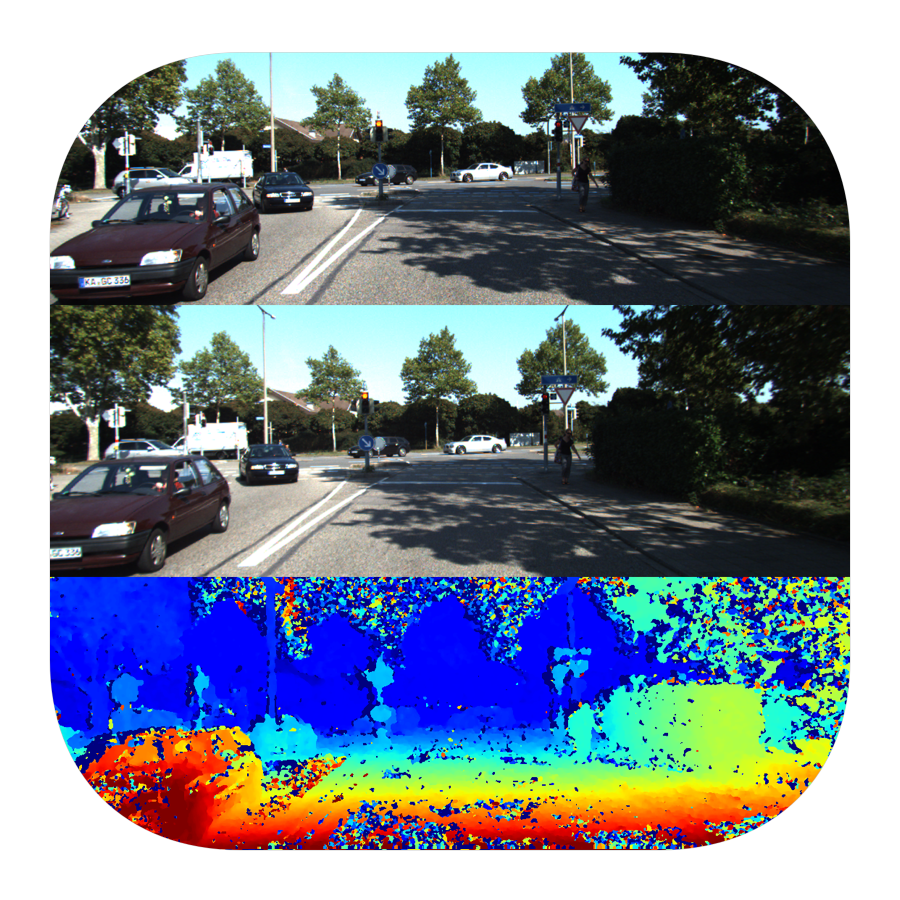
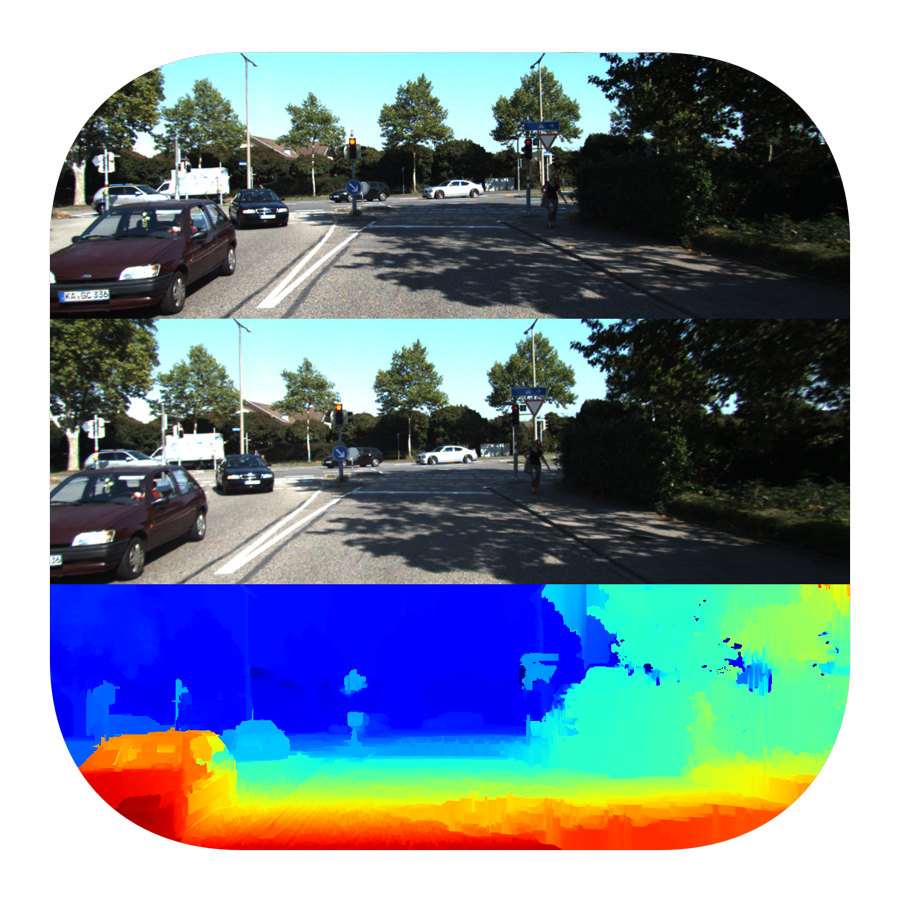
improved sgbm results with wls filtering

diff --git a/stereo_depth_estimator_sgbm.py b/stereo_depth_estimator_sgbm.py
@@ -5,6 +5,7 @@ import cv2
 import numpy as np
 import matplotlib.pyplot as plt
 import PIL.Image as Image
+from sklearn.preprocessing import normalize
 
 DPI=96
 DATASET = "data/1"
@@ -13,37 +14,93 @@ DATASET_RIGHT = DATASET+"/right/"
 DATASET_DISPARITIES = DATASET+"/disparities/"
 DATASET_COMBINED = DATASET+"/combined/"
 
-def process_frame(imgL, imgR, i):
-	stereo = cv2.StereoSGBM_create(minDisparity=0, numDisparities=64, blockSize=7);
-	disparities = stereo.compute(imgL, imgR).astype(np.float32)
-	fig = plt.figure(figsize=(disparities.shape[1]/DPI, disparities.shape[0]/DPI), dpi=DPI, frameon=False);
+DATASET_INPUTS = DATASET+"/inputs/"
+DATASET_OUTPUTS = DATASET+"/outputs/"
+
+def process_frame(left, right, name):
+	kernel_size = 3
+	smooth_left = cv2.GaussianBlur(left, (kernel_size,kernel_size), 1.5)
+	smooth_right = cv2.GaussianBlur(right, (kernel_size, kernel_size), 1.5)
+
+	window_size = 9    
+	left_matcher = cv2.StereoSGBM_create(
+	    numDisparities=96,
+	    blockSize=7,
+	    P1=8*3*window_size**2,
+	    P2=32*3*window_size**2,
+	    disp12MaxDiff=1,
+	    uniquenessRatio=16,
+	    speckleRange=2,
+	    mode=cv2.STEREO_SGBM_MODE_SGBM_3WAY
+	)
+
+	right_matcher = cv2.ximgproc.createRightMatcher(left_matcher)
+
+	wls_filter = cv2.ximgproc.createDisparityWLSFilter(matcher_left=left_matcher)
+	wls_filter.setLambda(80000)
+	wls_filter.setSigmaColor(1.2)
+
+	disparity_left = np.int16(left_matcher.compute(smooth_left, smooth_right))
+	disparity_right = np.int16(right_matcher.compute(smooth_right, smooth_left) )
+
+	wls_image = wls_filter.filter(disparity_left, smooth_left, None, disparity_right)
+	wls_image = cv2.normalize(src=wls_image, dst=wls_image, beta=0, alpha=255, norm_type=cv2.NORM_MINMAX);
+	wls_image = np.uint8(wls_image)
+
+	fig = plt.figure(figsize=(wls_image.shape[1]/DPI, wls_image.shape[0]/DPI), dpi=DPI, frameon=False);
 	ax = plt.Axes(fig, [0., 0., 1., 1.])
 	ax.set_axis_off()
 	fig.add_axes(ax)
-	plt.imshow(disparities, cmap='jet');
-	plt.savefig(DATASET_DISPARITIES+str(i)+".png")
+	plt.imshow(wls_image, cmap='jet');
+	plt.savefig(DATASET_DISPARITIES+name)
 	plt.close()
-	create_combined_output(imgL, imgR, i)
+	create_combined_output(left, right, name)
 
-def create_combined_output(imgL, imgR, i):
-	combined = np.concatenate((imgL, imgR, cv2.imread(DATASET_DISPARITIES+str(i)+".png")), axis=0)
-	cv2.imwrite(DATASET_COMBINED+str(i)+".png", combined)
+def create_combined_output(left, right, name):
+	combined = np.concatenate((left, right, cv2.imread(DATASET_DISPARITIES+name)), axis=0)
+	cv2.imwrite(DATASET_COMBINED+name, combined)
+
+def crop_square_from_center(image):
+	width, height = image.size
+	new_width = height
+	new_height = height
+	left = (width - new_width)/2
+	top = (height - new_height)/2
+	right = (width + new_width)/2
+	bottom = (height + new_height)/2
+	return image.crop((left, top, right, bottom))
+
+def divide_into_parts(image):
+	width, height = image.size
+	new_width = height
+	new_height = height
+
+	c_left = (width - new_width)/2
+	c_top = (height - new_height)/2
+	c_right = (width + new_width)/2
+	c_bottom = (height + new_height)/2
+	c = image.crop((c_left, c_top, c_right, c_bottom))
+
+	r_left = c_left+new_width
+	r_top = (height - new_height)/2
+	r_right = c_right+new_width
+	r_bottom = (height + new_height)/2
+	r = image.crop((r_left, r_top, r_right, r_bottom))
+
+	return c, r
 
 def process_dataset():
-	left_images = os.listdir(DATASET_LEFT)
-	right_images = os.listdir(DATASET_RIGHT)
+	left_images = [f for f in os.listdir(DATASET_LEFT) if not f.startswith('.')]
+	right_images = [f for f in os.listdir(DATASET_RIGHT) if not f.startswith('.')]
 	assert(len(left_images)==len(right_images))
 	left_images.sort()
 	right_images.sort()
 	for i in range(len(left_images)):
 		left_image_path = DATASET_LEFT+left_images[i]
 		right_image_path = DATASET_RIGHT+right_images[i]
-		process_frame(cv2.imread(left_image_path, cv2.IMREAD_COLOR),
-		 			  cv2.imread(right_image_path, cv2.IMREAD_COLOR),
-		  			  i)
+		left_image = cv2.imread(left_image_path, cv2.IMREAD_COLOR)
+		right_image = cv2.imread(right_image_path, cv2.IMREAD_COLOR)
+		process_frame(left_image, right_image, left_images[i])
 
-def main():
-	process_dataset()
-  
 if __name__== "__main__":
-  	main()
+	process_dataset()
